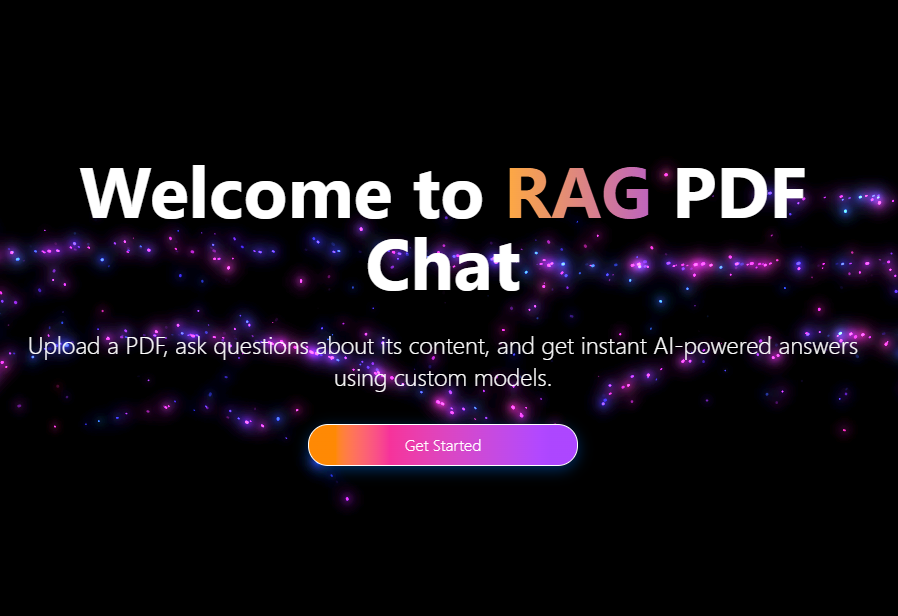
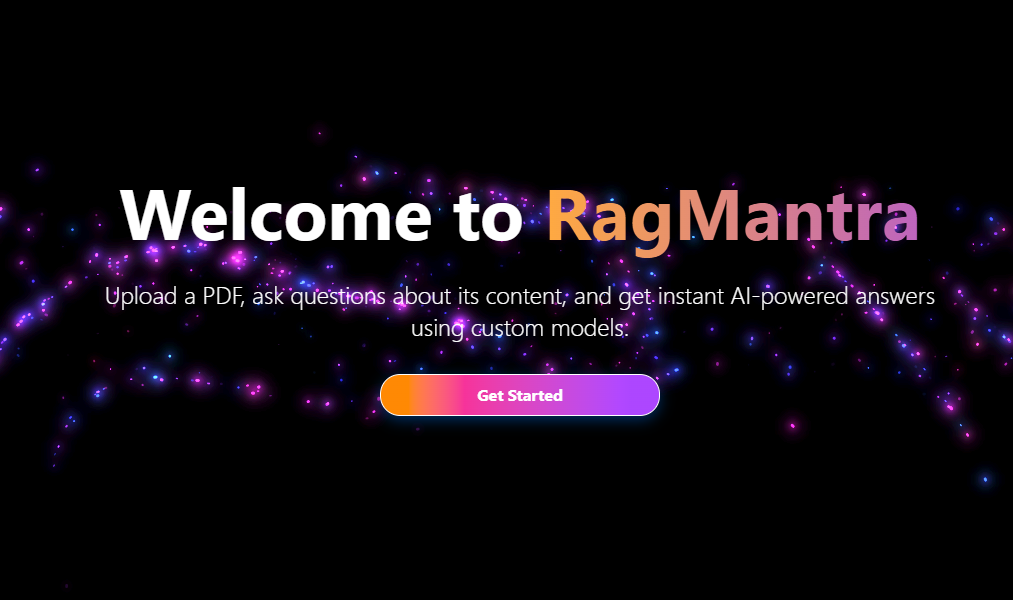
adding dropdown to select embedding model and changing image in about section

diff --git a/rag-client/src/components/ModelSelector.tsx b/rag-client/src/components/ModelSelector.tsx
@@ -2,31 +2,34 @@ import { useEffect, useState } from 'react';
 import { fetchModels } from '@/api/api';
 
 interface ModelSelectorProps {
-  selectedModel: string;
-  setSelectedModel: (model: string) => void;
+  selectedChatModel: string;
+  setSelectedChatModel: (model: string) => void;
+  selectedEmbedModel: string;
+  setSelectedEmbedModel: (model: string) => void;
 }
 
-// List of models to exclude (embedding models, not chat-compatible)
-const EXCLUDED_MODELS = ['nomic-embed-text'];
-
-const ModelSelector = ({ selectedModel, setSelectedModel }: ModelSelectorProps) => {
-  const [models, setModels] = useState<string[]>([]);
+const ModelSelector = ({
+  selectedChatModel,
+  setSelectedChatModel,
+  selectedEmbedModel,
+  setSelectedEmbedModel,
+}: ModelSelectorProps) => {
+  const [chatModels, setChatModels] = useState<string[]>([]);
+  const [embedModels, setEmbedModels] = useState<string[]>([]);
 
   useEffect(() => {
     const loadModels = async () => {
       try {
-        const modelList = await fetchModels();
+        const data = await fetchModels();
+        setChatModels(data.chat_models || []);
+        setEmbedModels(data.embedding_models || []);
 
-        // Filter out models that include any of the excluded keywords
-        const filteredModels = modelList.filter(
-          (model) =>
-            !EXCLUDED_MODELS.some((excluded) => model.toLowerCase().includes(excluded))
-        );
+        if (data.chat_models?.length && !selectedChatModel) {
+          setSelectedChatModel(data.chat_models[0]);
+        }
 
-        setModels(filteredModels);
-
-        if (filteredModels.length > 0 && !selectedModel) {
-          setSelectedModel(filteredModels[0]);
+        if (data.embedding_models?.length && !selectedEmbedModel) {
+          setSelectedEmbedModel(data.embedding_models[0]);
         }
       } catch (err) {
         console.error('Failed to load models', err);
@@ -37,20 +40,40 @@ const ModelSelector = ({ selectedModel, setSelectedModel }: ModelSelectorProps) 
   }, []);
 
   return (
-    <div className="mb-4 px-16 mt-16">
-      <label className="block font-semibold mb-1 text-white px-40">Select Model:</label>
-      <select
-        value={selectedModel}
-        onChange={(e) => setSelectedModel(e.target.value)}
-        className="w-full border-2 border-white px-3 py-2 rounded"
-      >
-        {models.map((model) => (
-          <option key={model} value={model}>
-            {model}
-          </option>
-        ))}
-      </select>
+    <div className="mb-4 px-16 mt-8 flex justify-between gap-8">
+      {/* Left (Chat Model) */}
+      <div>
+        <label className="block font-semibold mb-1 text-white">Select Chat Model:</label>
+        <select
+          value={selectedChatModel}
+          onChange={(e) => setSelectedChatModel(e.target.value)}
+          className="w-full border-2 border-white px-3 py-2 rounded"
+        >
+          {chatModels.map((model) => (
+            <option key={model} value={model}>
+              {model}
+            </option>
+          ))}
+        </select>
+      </div>
+
+      {/* Right (Embedding Model) */}
+      <div>
+        <label className="block font-semibold mb-1 text-white">Select Embedding Model:</label>
+        <select
+          value={selectedEmbedModel}
+          onChange={(e) => setSelectedEmbedModel(e.target.value)}
+          className="w-full border-2 border-white px-3 py-2 rounded"
+        >
+          {embedModels.map((model) => (
+            <option key={model} value={model}>
+              {model}
+            </option>
+          ))}
+        </select>
+      </div>
     </div>
+
   );
 };
 

diff --git a/rag-client/src/pages/RAGPage.tsx b/rag-client/src/pages/RAGPage.tsx
@@ -8,7 +8,8 @@ import GooeyNav from '@/components/ui/GooeyNavItem';
 const RAGPage = () => {
     const [pdfFile, setPdfFile] = useState<File | null>(null);
     const [question, setQuestion] = useState('');
-    const [selectedModel, setSelectedModel] = useState<string>('');
+    const [selectedChatModel, setSelectedChatModel] = useState<string>('');
+    const [selectedEmbedModel, setSelectedEmbedModel] = useState<string>('');
     const [isUploaded, setIsUploaded] = useState(false);
     return (
         <div className="min-h-screen bg-black text-white flex flex-col items-center justify-start p-6 pt-32 relative">
@@ -17,7 +18,7 @@ const RAGPage = () => {
                 <GooeyNav />
             </div>
 
-            <h1 className="text-3xl font-bold mb-6 mt-6">RAG PDF Chat</h1>
+            <h1 className="text-3xl font-bold mb-6 mt-6">RAGMantra Chat</h1>
 
             <div className="grid md:grid-cols-2 gap-4">
                 <div className="flex flex-col items-center justify-center">
@@ -28,15 +29,18 @@ const RAGPage = () => {
                         Drag or drop your files here or click to upload
                     </p>
                     <ModelSelector
-                        selectedModel={selectedModel}
-                        setSelectedModel={setSelectedModel}
+                        selectedChatModel={selectedChatModel}
+                        setSelectedChatModel={setSelectedChatModel}
+                        selectedEmbedModel={selectedEmbedModel}
+                        setSelectedEmbedModel={setSelectedEmbedModel}
                     />
                 </div>
 
                 <PDFUploader
                     pdfFile={pdfFile}
                     setPdfFile={setPdfFile}
-                    selectedModel={selectedModel}
+                    selectedChatModel={selectedChatModel}
+                    selectedEmbedModel={selectedEmbedModel}
                     onUploadSuccess={() => setIsUploaded(true)}
                 />
             </div>
@@ -45,7 +49,7 @@ const RAGPage = () => {
                 <QuestionForm
                     question={question}
                     setQuestion={setQuestion}
-                    selectedModel={selectedModel}
+                    selectedChatModel={selectedChatModel}
                 />
             )}
         </div>

diff --git a/rag-client/src/components/PDFUploader.tsx b/rag-client/src/components/PDFUploader.tsx
@@ -8,14 +8,16 @@ import { AnimatePresence, motion } from 'motion/react';
 interface PDFUploaderProps {
   pdfFile: File | null;
   setPdfFile: (file: File | null) => void;
-  selectedModel: string;
+  selectedChatModel: string;
+  selectedEmbedModel: string;
   onUploadSuccess: () => void;
 }
 
 const PDFUploader = ({
   pdfFile,
   setPdfFile,
-  selectedModel,
+  selectedChatModel,
+  selectedEmbedModel,
   onUploadSuccess,
 }: PDFUploaderProps) => {
   const [alertMessage, setAlertMessage] = useState('');
@@ -30,8 +32,13 @@ const PDFUploader = ({
       return;
     }
 
-    if (!selectedModel) {
-      triggerAlert('Please select a model.', 'destructive');
+    if (!selectedChatModel) {
+      triggerAlert('Please select a chat model.', 'destructive');
+      return;
+    }
+
+    if (!selectedEmbedModel) {
+      triggerAlert('Please select a embedding model.', 'destructive');
       return;
     }
 
@@ -40,12 +47,14 @@ const PDFUploader = ({
 
     try {
       setLoading(true);
-      const message = await uploadFile(pdfFile, selectedModel, controller.signal);
-      triggerAlert(message, 'default');
-      onUploadSuccess(); // notify parent
+      const response = await uploadFile(pdfFile, selectedChatModel, selectedEmbedModel, controller.signal);
+
+      const formattedMessage = `${response.message}\nChat Model: ${response.chat_model}\nEmbedding Model: ${response.embedding_model}`;
+
+      triggerAlert(formattedMessage, 'default');
+      onUploadSuccess();
     } catch (error) {
       triggerAlert('Upload failed.', 'destructive');
-      console.error(error);
     } finally {
       setLoading(false);
       setAbortController(null);

diff --git a/rag-client/src/api/api.ts b/rag-client/src/api/api.ts
@@ -1,13 +1,24 @@
-export const fetchModels = async (): Promise<string[]> => {
-  const res = await fetch('http://localhost:8000/models');
+export const fetchModels = async () => {
+  const res = await fetch("http://localhost:8000/models");
   const data = await res.json();
-  return data.models || [];
+  return data;
 };
 
-export const uploadFile = async (file: File, model: string, signal?: AbortSignal): Promise<string> => {
+
+export const uploadFile = async (
+  file: File,
+  model: string,
+  embedModel: string,
+  signal?: AbortSignal
+): Promise<{
+  message: string;
+  chat_model: string;
+  embedding_model: string;
+}> => {
   const formData = new FormData();
   formData.append('file', file);
   formData.append('model', model);
+  formData.append('embed_model', embedModel); // <--- added
 
   const res = await fetch('http://localhost:8000/upload', {
     method: 'POST',
@@ -16,10 +27,10 @@ export const uploadFile = async (file: File, model: string, signal?: AbortSignal
   });
 
   const data = await res.json();
-  return data.message;
+  return data;
 };
 
-export const askQuestion = async (question: string, model: string,signal?: AbortSignal): Promise<string> => {
+export const askQuestion = async (question: string, model: string, signal?: AbortSignal): Promise<string> => {
   const res = await fetch('http://localhost:8000/ask', {
     method: 'POST',
     headers: {

diff --git a/rag-client/src/components/QuestionForm.tsx b/rag-client/src/components/QuestionForm.tsx
@@ -31,13 +31,13 @@ interface ChatEntry {
 interface QuestionFormProps {
   question: string;
   setQuestion: (question: string) => void;
-  selectedModel: string;
+  selectedChatModel: string;
 }
 
 const QuestionForm = ({
   question,
   setQuestion,
-  selectedModel,
+  selectedChatModel,
 }: QuestionFormProps) => {
   const [alertMessage, setAlertMessage] = useState('');
   const [chatHistory, setChatHistory] = useState<ChatEntry[]>([]);
@@ -55,7 +55,7 @@ const QuestionForm = ({
       setAlertMessage("Please enter a question.");
       return;
     }
-    if (!selectedModel) {
+    if (!selectedChatModel) {
       setAlertMessage("Please select a model.");
       return;
     }
@@ -66,7 +66,7 @@ const QuestionForm = ({
     try {
       setAlertMessage('');
       setLoading(true);
-      const answer = await askQuestion(question, selectedModel, controller.signal);
+      const answer = await askQuestion(question, selectedChatModel, controller.signal);
       setChatHistory(prev => [...prev, { question, response: answer }]);
       setQuestion('');
       window.scrollTo({ top: document.body.scrollHeight, behavior: 'smooth' });

diff --git a/backend/models/main.py b/backend/models/main.py
@@ -36,18 +36,25 @@ async def list_models():
         result = subprocess.run(["ollama", "list"], capture_output=True, text=True, check=True)
         lines = result.stdout.strip().splitlines()
 
-        model_names = []
-        for line in lines[1:]:
-            name = line.split()[0]  # Extract the model name
-            model_names.append(name)
+        model_names = [line.split()[0] for line in lines[1:]]
 
-        return JSONResponse(content={"models": model_names})
+        chat_models = [name for name in model_names if "embed" not in name.lower()]
+        embedding_models = [name for name in model_names if "embed" in name.lower()]
+
+        return JSONResponse(content={
+            "chat_models": chat_models,
+            "embedding_models": embedding_models
+        })
     except Exception as e:
         return JSONResponse(status_code=500, content={"error": str(e)})
 
 
 @app.post("/upload")
-async def upload_pdf(file: UploadFile = File(...), model: str = Form(...)):
+async def upload_pdf(
+    file: UploadFile = File(...), 
+    model: str = Form(...), 
+    embed_model: str = Form(...)
+):
     with open("uploaded.pdf", "wb") as f:
         shutil.copyfileobj(file.file, f)
 
@@ -56,14 +63,18 @@ async def upload_pdf(file: UploadFile = File(...), model: str = Form(...)):
 
     global vector_db, vector_store, chain, llm
 
-    vector_store = VectorStore("nomic-embed-text", "simple-rag")
+    vector_store = VectorStore(embed_model, "simple-rag")  
     vector_db = vector_store.create_vector_db(chunks)
 
-    llm = ChatOllama(model=model)  
+    llm = ChatOllama(model=model)
     retriever = rag_chain.create_retriever(vector_db, llm)
     chain = rag_chain.create_chain(retriever, llm)
 
-    return {"message": f"PDF uploaded and processed using model: {model}"}
+    return {
+        "chat_model": model,
+        "embedding_model": embed_model,
+        "message": "PDF uploaded and processed successfully."
+    }
 
 
 @app.post("/ask")
